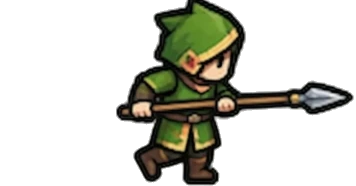
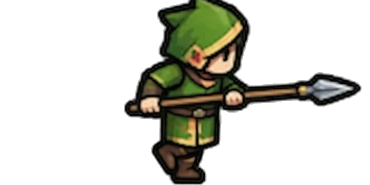
창병 걷기 그림 12컷(시트 시간 순서) / 베타 1.351
Claude-Session: https://claude.ai/code/session_01EFTEodMUbbTSUTixRFZg7z

Changed region(s): [[0.309, 0.0, 1.0, 1.0]]

diff --git a/client/src/main.ts b/client/src/main.ts
@@ -271,10 +271,11 @@ async function main() {
   const spearAtk = await loadSpearAtk("ally");
   const enemySpearAtk = await loadSpearAtk("enemy"); // 적 창병은 같은 컷을 어둡고 붉은 팔레트로 바꾼 그림
   // 창병 걷기 4컷(옆모습 오른쪽을 봄, 왼쪽은 좌우 반전). 없으면 걷기 그림 없이 기본 자세로 그린다.
-  const loadSpearWalk = (side: "ally" | "enemy") => Promise.all([0, 1, 2, 3].map((i) => Assets.load<Texture>(`assets/units/${side}_spear_walk_${i}.png`).catch(() => null)));
+  const WALK_N = 12; // 걷기 그림 컷 수(생성한 걷기 시트 36컷에서 3컷 간격으로 골랐다. 시간 순서대로 한 바퀴)
+  const loadSpearWalk = (side: "ally" | "enemy") => Promise.all(Array.from({ length: WALK_N }, (_, i) => Assets.load<Texture>(`assets/units/${side}_spear_walk_${i}.png`).catch(() => null)));
   const spearWalk = await loadSpearWalk("ally");
   const enemySpearWalk = await loadSpearWalk("enemy");
-  const WALK_STRIDE = 7; // 이 거리(px)만큼 움직일 때마다 걷기 그림이 한 컷 넘어간다(4컷 한 바퀴 = 28px)
+  const WALK_STRIDE = 7; // 이 거리(px)만큼 움직일 때마다 걷기 그림이 한 컷 넘어간다(12컷 한 바퀴 = 84px)
   const spearAtkOk = (set: (Texture | null)[][]) => set.every((row) => row.every((t) => t !== null));
   const SPEAR_ATK_OK = spearAtkOk(spearAtk);
   const ENEMY_SPEAR_ATK_OK = spearAtkOk(enemySpearAtk);
@@ -289,7 +290,7 @@ async function main() {
     if (prog <= 0 && (sv.sHold ?? 0) <= 0) {
       // 걷기: 움직이는 동안 거리에 맞춰 4컷을 돌린다(멈추면 기본 자세)
       if (moved > 0.25) {
-        sv.wph = ((sv.wph ?? 0) + moved / WALK_STRIDE) % 4;
+        sv.wph = ((sv.wph ?? 0) + moved / WALK_STRIDE) % WALK_N;
         const set = col === null ? enemySpearWalk : spearWalk;
         const t = set[Math.floor(sv.wph)];
         if (t && set.every((x) => x !== null)) {
